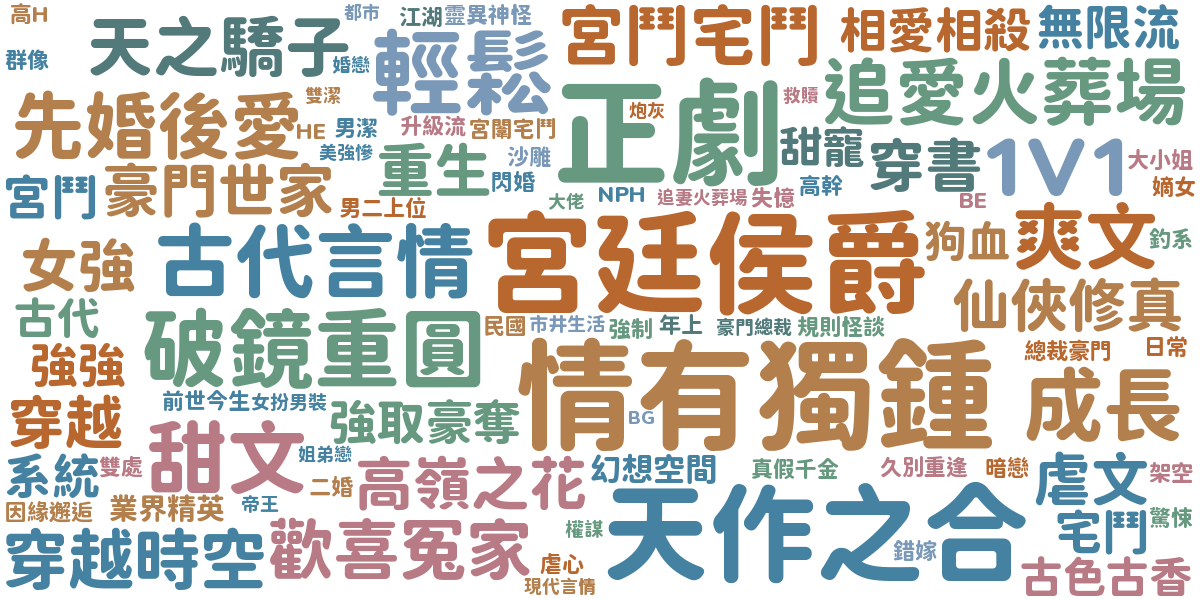
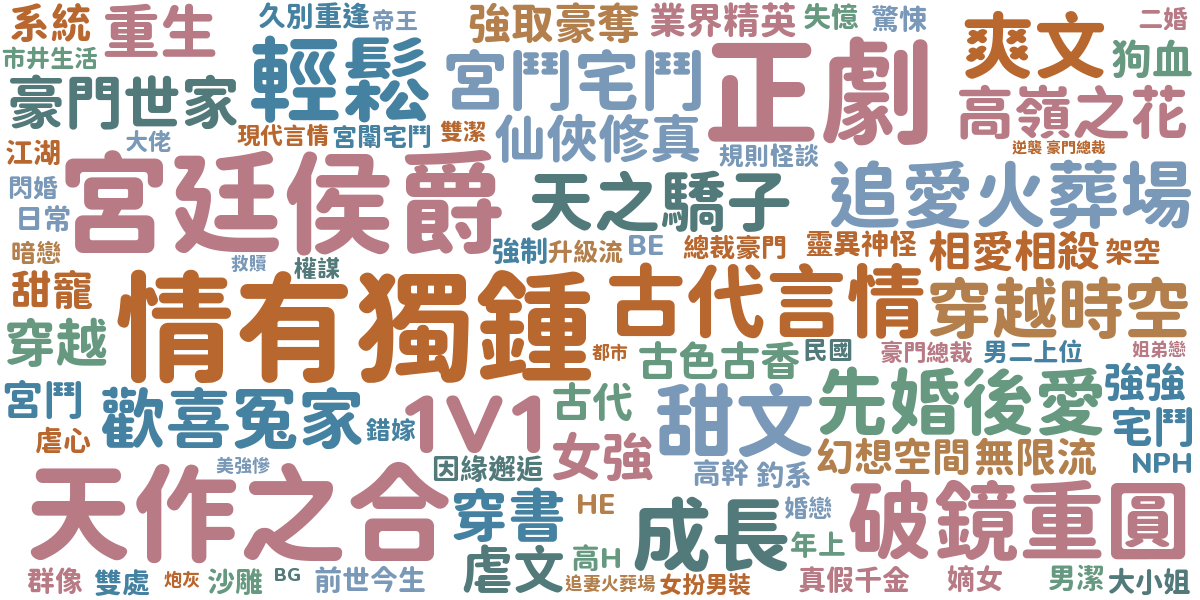
☁️ Update reading word cloud via GitHub Actions

diff --git a/public/word_cloud.html b/public/word_cloud.html
@@ -23,6 +23,6 @@
     </style>
 </head>
 <body>
-    <img src="word_cloud.png?t=1778720031" alt="Word Cloud">
+    <img src="word_cloud.png?t=1778806274" alt="Word Cloud">
 </body>
 </html>